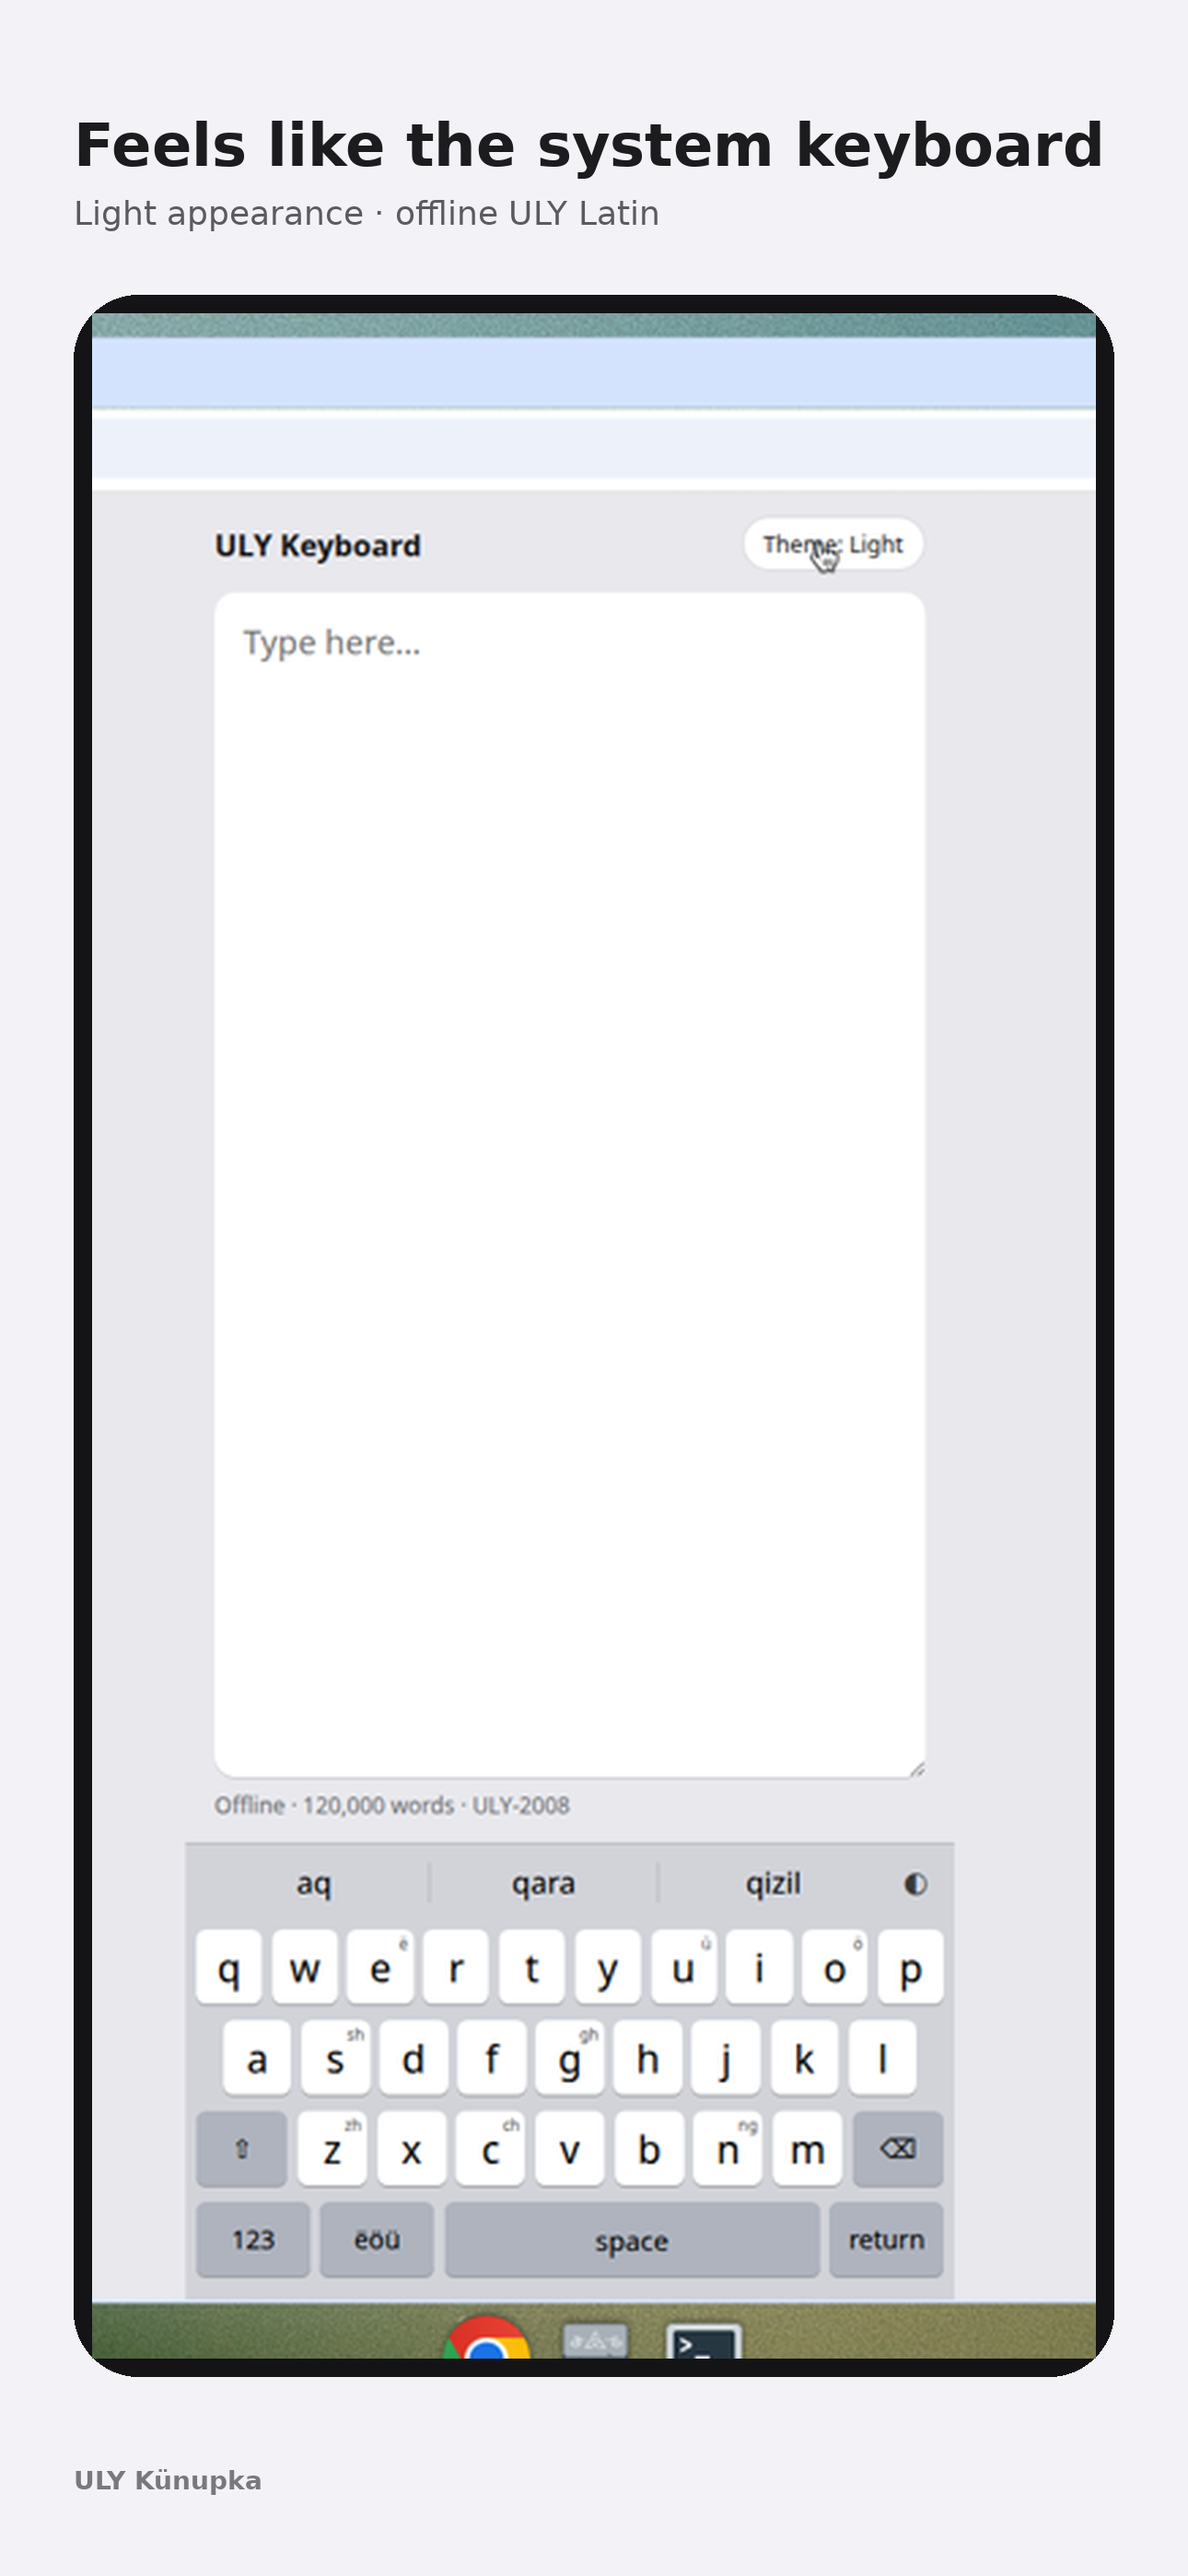
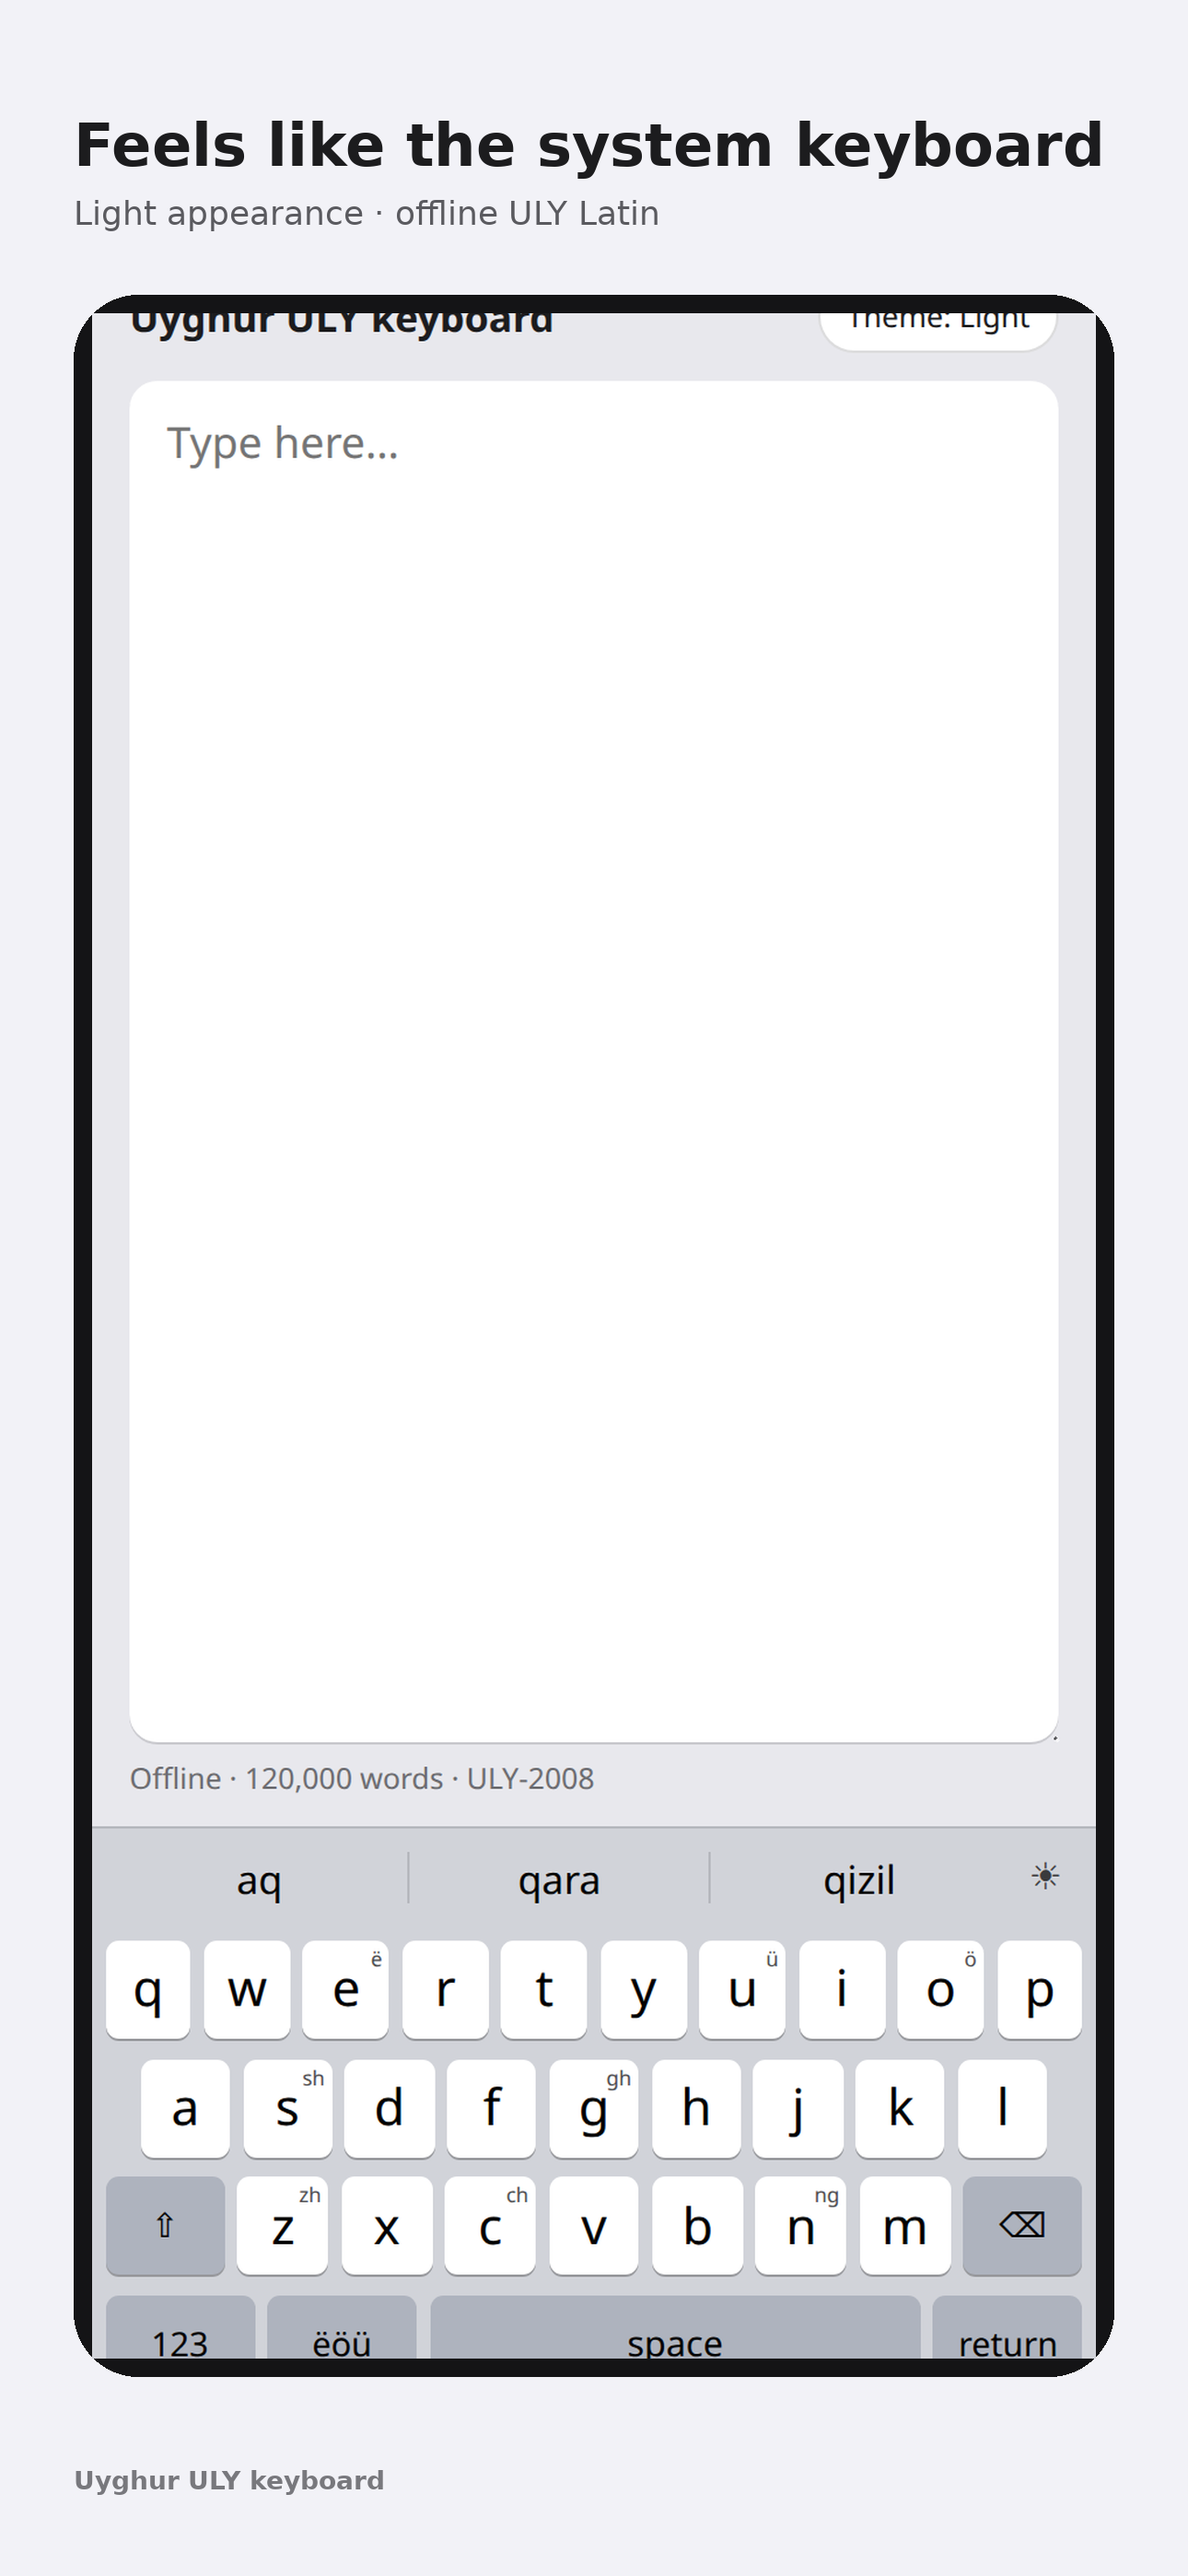
Regenerate App Store marketing screenshots from live demo
Add Playwright capture against the public /demo/, compose masters,
and resize for 6.7"/6.5"/6.1" without re-processing sized variants.

diff --git a/tools/capture_demo_for_store.py b/tools/capture_demo_for_store.py
@@ -1,0 +1,128 @@
+#!/usr/bin/env python3
+"""Capture web demo frames for App Store marketing screenshot composition.
+
+Uses Playwright + system Chrome against the public /demo/ (or DEMO_URL).
+"""
+
+from __future__ import annotations
+
+import os
+import time
+from pathlib import Path
+
+from playwright.sync_api import sync_playwright
+
+OUT = Path("/opt/cursor/artifacts/screenshots")
+DEMO_URL = os.environ.get("DEMO_URL", "https://eskar-ai.github.io/ULY-IOS/demo/")
+VIEWPORT = {"width": 430, "height": 932}  # phone-ish
+
+
+def shot(page, name: str) -> Path:
+    OUT.mkdir(parents=True, exist_ok=True)
+    dest = OUT / name
+    page.screenshot(path=str(dest), full_page=False, type="png")
+    print("captured", dest)
+    return dest
+
+
+def main() -> None:
+    with sync_playwright() as p:
+        browser = p.chromium.launch(
+            executable_path="/usr/local/bin/google-chrome",
+            headless=True,
+            args=["--disable-dev-shm-usage"],
+        )
+        context = browser.new_context(
+            viewport=VIEWPORT,
+            device_scale_factor=2,
+            is_mobile=True,
+            has_touch=True,
+        )
+        page = context.new_page()
+        page.goto(DEMO_URL, wait_until="networkidle", timeout=120_000)
+        page.wait_for_selector("#keyboard", timeout=60_000)
+        # Wait for lexicon
+        page.wait_for_function(
+            """() => {
+              const s = document.querySelector('#status');
+              return s && !/loading/i.test(s.textContent || '');
+            }""",
+            timeout=90_000,
+        )
+        time.sleep(0.5)
+
+        # Light theme empty / setup-like
+        page.evaluate("""() => {
+          localStorage.setItem('uyghurlatin.themePreference', 'light');
+          location.reload();
+        }""")
+        page.wait_for_selector("#keyboard", timeout=60_000)
+        page.wait_for_function(
+            """() => {
+              const s = document.querySelector('#status');
+              return s && !/loading/i.test(s.textContent || '');
+            }""",
+            timeout=90_000,
+        )
+        time.sleep(0.4)
+        shot(page, "uly-theme-light.png")
+        # Alias names expected by make_store_screenshots
+        shot(page, "uly-theme-system.png")
+
+        # Type for suggestions
+        editor = page.locator("#editor")
+        editor.click()
+        editor.fill("")
+        editor.type("uygh", delay=40)
+        time.sleep(0.6)
+        shot(page, "uly-theme-light-suggestions.png")
+
+        # Dark + suggestions
+        page.evaluate("""() => {
+          localStorage.setItem('uyghurlatin.themePreference', 'dark');
+        }""")
+        # click theme until dark if button cycles
+        for _ in range(3):
+            btn = page.locator("#themeCycle")
+            if btn.count():
+                btn.click()
+                time.sleep(0.2)
+        # force via class/attr if app exposes data-theme
+        page.evaluate("""() => {
+          document.documentElement.dataset.theme = 'dark';
+          document.body.classList.add('theme-dark');
+          localStorage.setItem('uyghurlatin.themePreference', 'dark');
+          window.dispatchEvent(new Event('storage'));
+        }""")
+        # Reload to apply preference cleanly
+        page.reload(wait_until="networkidle")
+        page.wait_for_selector("#keyboard", timeout=60_000)
+        page.wait_for_function(
+            """() => {
+              const s = document.querySelector('#status');
+              return s && !/loading/i.test(s.textContent || '');
+            }""",
+            timeout=90_000,
+        )
+        time.sleep(0.4)
+        shot(page, "uly-theme-dark.png")
+
+        editor = page.locator("#editor")
+        editor.click()
+        editor.fill("")
+        editor.type("uygh", delay=40)
+        time.sleep(0.7)
+        shot(page, "uly-theme-dark-suggestions.png")
+
+        # Spell-check style: type misspelling
+        editor.fill("")
+        editor.type("bugun", delay=40)
+        time.sleep(0.8)
+        shot(page, "uly-corrected-bugun.png")
+
+        browser.close()
+    print("done →", OUT)
+
+
+if __name__ == "__main__":
+    main()

diff --git a/tools/make_store_screenshots.py b/tools/make_store_screenshots.py
@@ -89,40 +89,57 @@ def compose(bg_color: tuple[int, int, int], capture: Path, title: str, subtitle:
 
 def main() -> None:
     shots_dir = Path("/opt/cursor/artifacts/screenshots")
-    # Prefer latest theme captures; fall back to any available
+
+    def resolve(*names: str) -> Path:
+        for n in names:
+            p = shots_dir / n
+            if p.exists():
+                return p
+        # Prefer any recent capture
+        for pattern in ("uly-*.png", "uly-*.webp"):
+            alts = sorted(shots_dir.glob(pattern), key=lambda x: x.stat().st_mtime, reverse=True)
+            if alts:
+                return alts[0]
+        return shots_dir / names[0]
+
+    # Prefer PNG captures from tools/capture_demo_for_store.py; keep .webp fallbacks.
     mapping = [
         (
             "01-setup.png",
             (242, 242, 247),
-            shots_dir / "uly-theme-system.webp",
+            resolve("uly-theme-system.png", "uly-theme-light.png", "uly-theme-system.webp"),
             "Enable in a minute",
             "Settings → Keyboard → Add Uyghur ULY keyboard",
         ),
         (
             "02-keyboard-light.png",
             (242, 242, 247),
-            shots_dir / "uly-theme-light.webp",
+            resolve("uly-theme-light.png", "uly-theme-light.webp"),
             "Feels like the system keyboard",
             "Light appearance · offline ULY Latin",
         ),
         (
             "03-suggestions.png",
             (242, 242, 247),
-            shots_dir / "uly-theme-dark-suggestions.webp",
+            resolve(
+                "uly-theme-dark-suggestions.png",
+                "uly-theme-light-suggestions.png",
+                "uly-theme-dark-suggestions.webp",
+            ),
             "Suggestions as you type",
             "uygh → uyghur, uyghurche, …",
         ),
         (
             "04-spellcheck.png",
             (242, 242, 247),
-            shots_dir / "uly-corrected-bugun.webp",
+            resolve("uly-corrected-bugun.png", "uly-corrected-bugun.webp"),
             "Spell check on device",
             "bugun → bügün",
         ),
         (
             "05-keyboard-dark.png",
             (0, 0, 0),
-            shots_dir / "uly-theme-dark.webp",
+            resolve("uly-theme-dark.png", "uly-theme-dark.webp"),
             "Follows system Dark Mode",
             "Or lock Light / Dark from the keyboard",
         ),
@@ -134,10 +151,8 @@ def main() -> None:
         if "dark" in name and "suggestions" not in name:
             color = (0, 0, 0)
         dest = OUT / name
-        # fallback chain
         if not src.exists():
-            alts = sorted(shots_dir.glob("uly-*.webp"))
-            src = alts[0] if alts else src
+            print("warning: missing capture", src)
         compose(color, src, title, subtitle, dest)
         captions.append({"file": name, "title": title, "subtitle": subtitle, "source": str(src)})
 

diff --git a/tools/resize_store_screenshots.py b/tools/resize_store_screenshots.py
@@ -16,8 +16,14 @@ SIZES = {
 }
 
 
+def is_master(path: Path) -> bool:
+    """Only NN-slug.png masters — skip already-resized *-iphone-*.png."""
+    stem = path.stem
+    return "-iphone-" not in stem
+
+
 def main() -> None:
-    masters = sorted(SRC.glob("[0-9][0-9]-*.png"))
+    masters = sorted(p for p in SRC.glob("[0-9][0-9]-*.png") if is_master(p))
     if not masters:
         print("No masters in", SRC)
         return
@@ -25,13 +31,12 @@ def main() -> None:
         im = Image.open(path).convert("RGB")
         base = path.stem
         for tag, size in SIZES.items():
-            if im.size == size:
-                dest = OUT / f"{base}-{tag}.png"
-                im.save(dest, "PNG")
-                continue
-            fitted = im.resize(size, Image.Resampling.LANCZOS)
             dest = OUT / f"{base}-{tag}.png"
-            fitted.save(dest, "PNG")
+            if im.size == size:
+                im.save(dest, "PNG")
+            else:
+                fitted = im.resize(size, Image.Resampling.LANCZOS)
+                fitted.save(dest, "PNG")
             print("wrote", dest.name, size)
     print("done")
 

diff --git a/store/marketing/screenshots/README.md b/store/marketing/screenshots/README.md
@@ -6,10 +6,17 @@
 | `*-iphone-65.png` | 1284×2778 | iPhone 6.5" |
 | `*-iphone-61.png` | 1179×2556 | iPhone 6.1" |
 
-Regenerate masters:
+Regenerate masters (from repo root):
 
 ```bash
+# 1) Capture live demo frames → /opt/cursor/artifacts/screenshots/
+python3 tools/capture_demo_for_store.py
+# Optional: DEMO_URL=http://127.0.0.1:4173/ python3 tools/capture_demo_for_store.py
+
+# 2) Compose App Store marketing frames (1290×2796)
 python3 tools/make_store_screenshots.py
+
+# 3) Resize to 6.5" / 6.1"
 python3 tools/resize_store_screenshots.py
 ```
 
